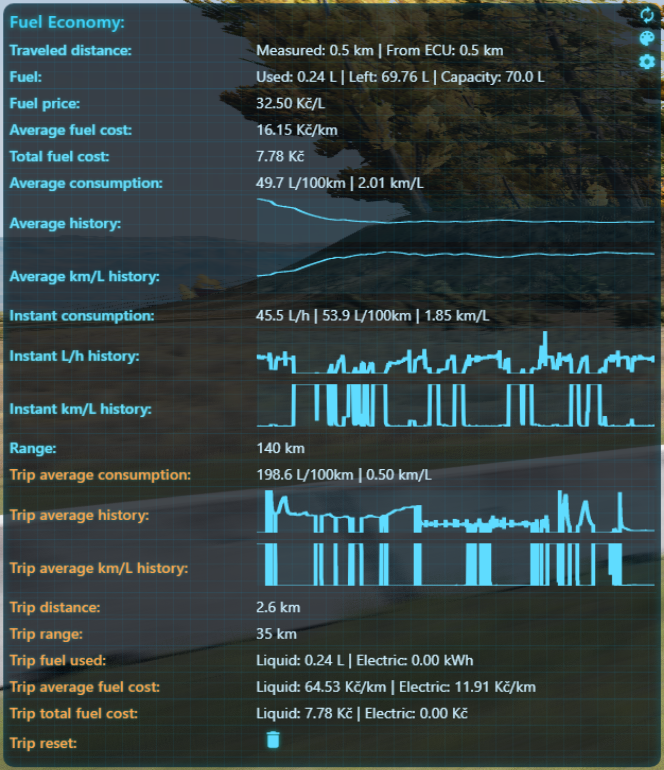
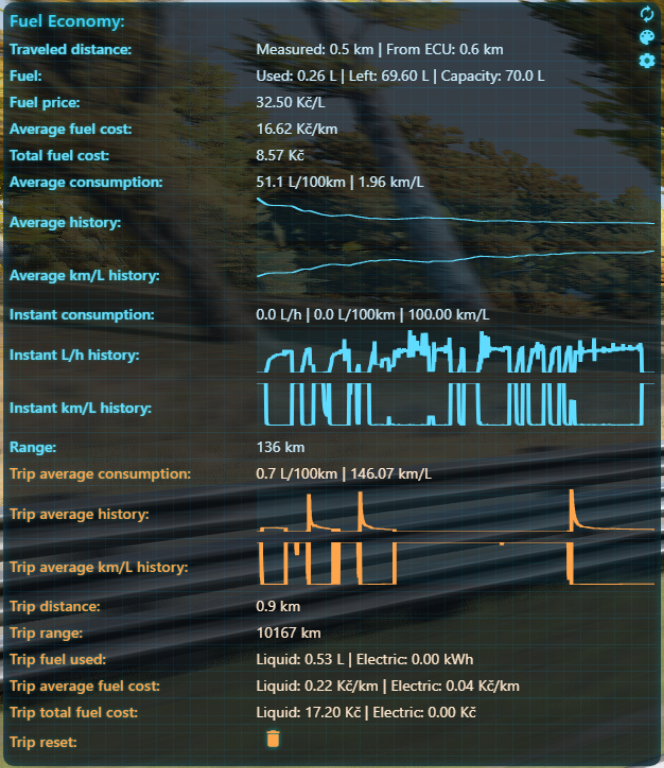
Separate trip values visually

diff --git a/okFuelEconomy/ui/modules/apps/okFuelEconomy/app.html b/okFuelEconomy/ui/modules/apps/okFuelEconomy/app.html
@@ -141,7 +141,7 @@
       <td ng-attr-style="{{ useCustomStyles ? 'padding:3px 2px; color:#ffa64d; font-weight:500; text-shadow:0 0 3px rgba(0,255,255,0.4); border-bottom:1px solid rgba(0,180,255,0.10);' : '' }}">
         Trip average consumption:
       </td>
-      <td ng-attr-style="{{ useCustomStyles ? 'padding:3px 2px; color:#ccefff; border-bottom:1px solid rgba(0,180,255,0.10);' : '' }}">
+      <td ng-attr-style="{{ useCustomStyles ? 'padding:3px 2px; color:#FFE7CC; border-bottom:1px solid rgba(0,180,255,0.10);' : '' }}">
         <span ng-if="visible.tripAvgL100km" id="tripAvgDisplay">{{ tripAvgL100km }}</span>
         <span ng-if="visible.tripAvgL100km && visible.tripAvgKmL"> | </span>
         <span ng-if="visible.tripAvgKmL">{{ tripAvgKmL }}</span>
@@ -152,9 +152,9 @@
       <td ng-attr-style="{{ useCustomStyles ? 'padding:3px 2px; color:#ffa64d; font-weight:500; text-shadow:0 0 3px rgba(0,255,255,0.4); border-bottom:1px solid rgba(0,180,255,0.10);' : '' }}">
         Trip average history:
       </td>
-      <td ng-attr-style="{{ useCustomStyles ? 'padding:3px 2px; color:#ccefff; border-bottom:1px solid rgba(0,180,255,0.10);' : '' }}">
+      <td ng-attr-style="{{ useCustomStyles ? 'padding:3px 2px; color:#FFE7CC; border-bottom:1px solid rgba(0,180,255,0.10);' : '' }}">
         <svg viewBox="0 0 100 40" preserveAspectRatio="none" ng-attr-style="{{ 'width:100%; height:40px;' + (useCustomStyles ? ' background:rgba(0,200,255,0.05);' : '') }}">
-          <polyline ng-attr-points="{{ tripAvgHistory }}" ng-attr-style="{{ 'fill:none;stroke:' + (useCustomStyles ? '#5fdcff' : 'currentColor') + ';stroke-width:1;' }}"></polyline>
+          <polyline ng-attr-points="{{ tripAvgHistory }}" ng-attr-style="{{ 'fill:none;stroke:' + (useCustomStyles ? '#ffa64d' : 'currentColor') + ';stroke-width:1;' }}"></polyline>
         </svg>
       </td>
     </tr>
@@ -163,9 +163,9 @@
       <td ng-attr-style="{{ useCustomStyles ? 'padding:3px 2px; color:#ffa64d; font-weight:500; text-shadow:0 0 3px rgba(0,255,255,0.4); border-bottom:1px solid rgba(0,180,255,0.10);' : '' }}">
         Trip average {{ unitEfficiencyUnit }} history:
       </td>
-      <td ng-attr-style="{{ useCustomStyles ? 'padding:3px 2px; color:#ccefff; border-bottom:1px solid rgba(0,180,255,0.10);' : '' }}">
+      <td ng-attr-style="{{ useCustomStyles ? 'padding:3px 2px; color:#FFE7CC; border-bottom:1px solid rgba(0,180,255,0.10);' : '' }}">
         <svg viewBox="0 0 100 40" preserveAspectRatio="none" ng-attr-style="{{ 'width:100%; height:40px;' + (useCustomStyles ? ' background:rgba(0,200,255,0.05);' : '') }}">
-          <polyline ng-attr-points="{{ tripAvgKmLHistory }}" ng-attr-style="{{ 'fill:none;stroke:' + (useCustomStyles ? '#5fdcff' : 'currentColor') + ';stroke-width:1;' }}"></polyline>
+          <polyline ng-attr-points="{{ tripAvgKmLHistory }}" ng-attr-style="{{ 'fill:none;stroke:' + (useCustomStyles ? '#ffa64d' : 'currentColor') + ';stroke-width:1;' }}"></polyline>
         </svg>
       </td>
     </tr>
@@ -174,7 +174,7 @@
       <td ng-attr-style="{{ useCustomStyles ? 'padding:3px 2px; color:#ffa64d; font-weight:500; text-shadow:0 0 3px rgba(0,255,255,0.4); border-bottom:1px solid rgba(0,180,255,0.10);' : '' }}">
         Trip distance:
       </td>
-      <td ng-attr-style="{{ useCustomStyles ? 'padding:3px 2px; color:#ccefff; border-bottom:1px solid rgba(0,180,255,0.10);' : '' }}">
+      <td ng-attr-style="{{ useCustomStyles ? 'padding:3px 2px; color:#FFE7CC; border-bottom:1px solid rgba(0,180,255,0.10);' : '' }}">
         <span id="tripDistanceDisplay">{{ data8 }}</span>
       </td>
     </tr>
@@ -183,7 +183,7 @@
       <td ng-attr-style="{{ useCustomStyles ? 'padding:3px 2px; color:#ffa64d; font-weight:500; text-shadow:0 0 3px rgba(0,255,255,0.4); border-bottom:1px solid rgba(0,180,255,0.10);' : '' }}">
         Trip range:
       </td>
-      <td ng-attr-style="{{ useCustomStyles ? 'padding:3px 2px; color:#ccefff; border-bottom:1px solid rgba(0,180,255,0.10);' : '' }}">
+      <td ng-attr-style="{{ useCustomStyles ? 'padding:3px 2px; color:#FFE7CC; border-bottom:1px solid rgba(0,180,255,0.10);' : '' }}">
         {{ data9 }}
       </td>
     </tr>
@@ -192,7 +192,7 @@
       <td ng-attr-style="{{ useCustomStyles ? 'padding:3px 2px; width:38%; color:#ffa64d; font-weight:500; text-shadow:0 0 3px rgba(0,255,255,0.4); border-bottom:1px solid rgba(0,180,255,0.10);' : '' }}">
         Trip fuel used:
       </td>
-      <td ng-attr-style="{{ useCustomStyles ? 'padding:3px 2px; color:#ccefff; border-bottom:1px solid rgba(0,180,255,0.10);' : '' }}">
+      <td ng-attr-style="{{ useCustomStyles ? 'padding:3px 2px; color:#FFE7CC; border-bottom:1px solid rgba(0,180,255,0.10);' : '' }}">
         <span>Liquid: {{ tripFuelUsedLiquid }}</span>
         <span> | </span>
         <span>Electric: {{ tripFuelUsedElectric }}</span>
@@ -203,7 +203,7 @@
       <td ng-attr-style="{{ useCustomStyles ? 'padding:3px 2px; color:#ffa64d; font-weight:500; text-shadow:0 0 3px rgba(0,255,255,0.4); border-bottom:1px solid rgba(0,180,255,0.10);' : '' }}">
         Trip average fuel cost:
       </td>
-      <td ng-attr-style="{{ useCustomStyles ? 'padding:3px 2px; color:#ccefff; border-bottom:1px solid rgba(0,180,255,0.10);' : '' }}">
+      <td ng-attr-style="{{ useCustomStyles ? 'padding:3px 2px; color:#FFE7CC; border-bottom:1px solid rgba(0,180,255,0.10);' : '' }}">
         <span>Liquid: {{ tripAvgCostLiquid }}</span>
         <span> | </span>
         <span>Electric: {{ tripAvgCostElectric }}</span>
@@ -214,7 +214,7 @@
       <td ng-attr-style="{{ useCustomStyles ? 'padding:3px 2px; color:#ffa64d; font-weight:500; text-shadow:0 0 3px rgba(0,255,255,0.4); border-bottom:1px solid rgba(0,180,255,0.10);' : '' }}">
         Trip total fuel cost:
       </td>
-      <td ng-attr-style="{{ useCustomStyles ? 'padding:3px 2px; color:#ccefff; border-bottom:1px solid rgba(0,180,255,0.10);' : '' }}">
+      <td ng-attr-style="{{ useCustomStyles ? 'padding:3px 2px; color:#FFE7CC; border-bottom:1px solid rgba(0,180,255,0.10);' : '' }}">
         <span>Liquid: {{ tripTotalCostLiquid }}</span>
         <span> | </span>
         <span>Electric: {{ tripTotalCostElectric }}</span>
@@ -225,10 +225,10 @@
       <td ng-attr-style="{{ useCustomStyles ? 'padding:3px 2px; color:#ffa64d; font-weight:500; text-shadow:0 0 3px rgba(0,255,255,0.4); border-bottom:1px solid rgba(0,180,255,0.10);' : '' }}">
         Trip reset:
       </td>
-      <td ng-attr-style="{{ useCustomStyles ? 'padding:3px 2px; color:#ccefff; border-bottom:1px solid rgba(0,180,255,0.10);' : '' }}">
+      <td ng-attr-style="{{ useCustomStyles ? 'padding:3px 2px; color:#FFE7CC; border-bottom:1px solid rgba(0,180,255,0.10);' : '' }}">
         <span class="material-icons"
               ng-click="resetOverall($event)"
-              ng-attr-style="{{ 'cursor:pointer; margin-left:6px;' + (useCustomStyles ? ' color:#5fdcff; text-shadow:0 0 5px rgba(0,255,255,0.6);' : '') }}">
+              ng-attr-style="{{ 'cursor:pointer; margin-left:6px;' + (useCustomStyles ? ' color:#ffa64d; text-shadow:0 0 5px rgba(0,255,255,0.6);' : '') }}">
           delete
         </span>
       </td>
@@ -308,6 +308,6 @@
               ng-attr-style="{{ 'margin-top:4px; font-size:0.8em; padding:2px 6px; cursor:pointer;' + (useCustomStyles ? ' color:#aeeaff; background:rgba(0,200,255,0.15); border:1px solid #5fdcff;' : '') }}">
         <span class="material-icons" ng-attr-style="{{ 'font-size:inherit; vertical-align:middle; margin-right:2px;' + (useCustomStyles ? '' : '') }}">save</span>Save
       </button>
-      <p ng-attr-style="{{ useCustomStyles ? 'margin-top:4px; color:#aeeaff;' : '' }}">Project version: 1.0.4</p>
+      <p ng-attr-style="{{ useCustomStyles ? 'margin-top:4px; color:#aeeaff;' : '' }}">Project version: 1.0.5</p>
   </div>
 </div>
